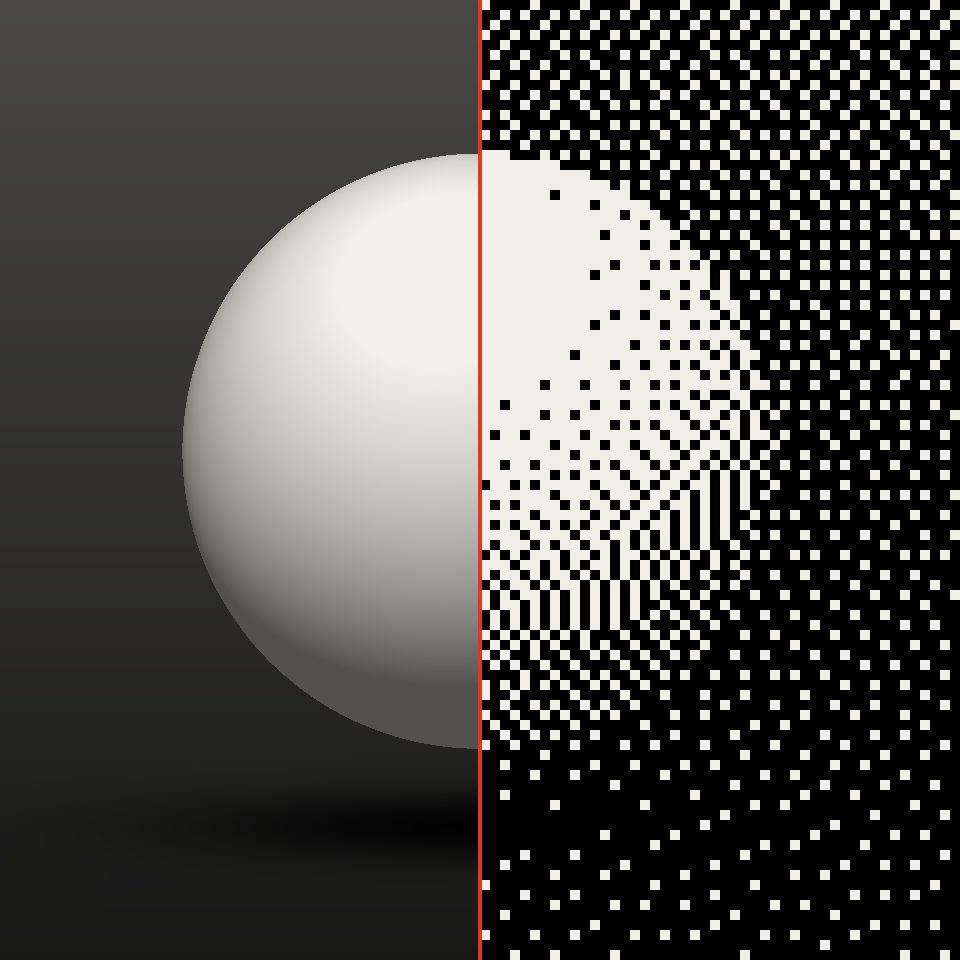
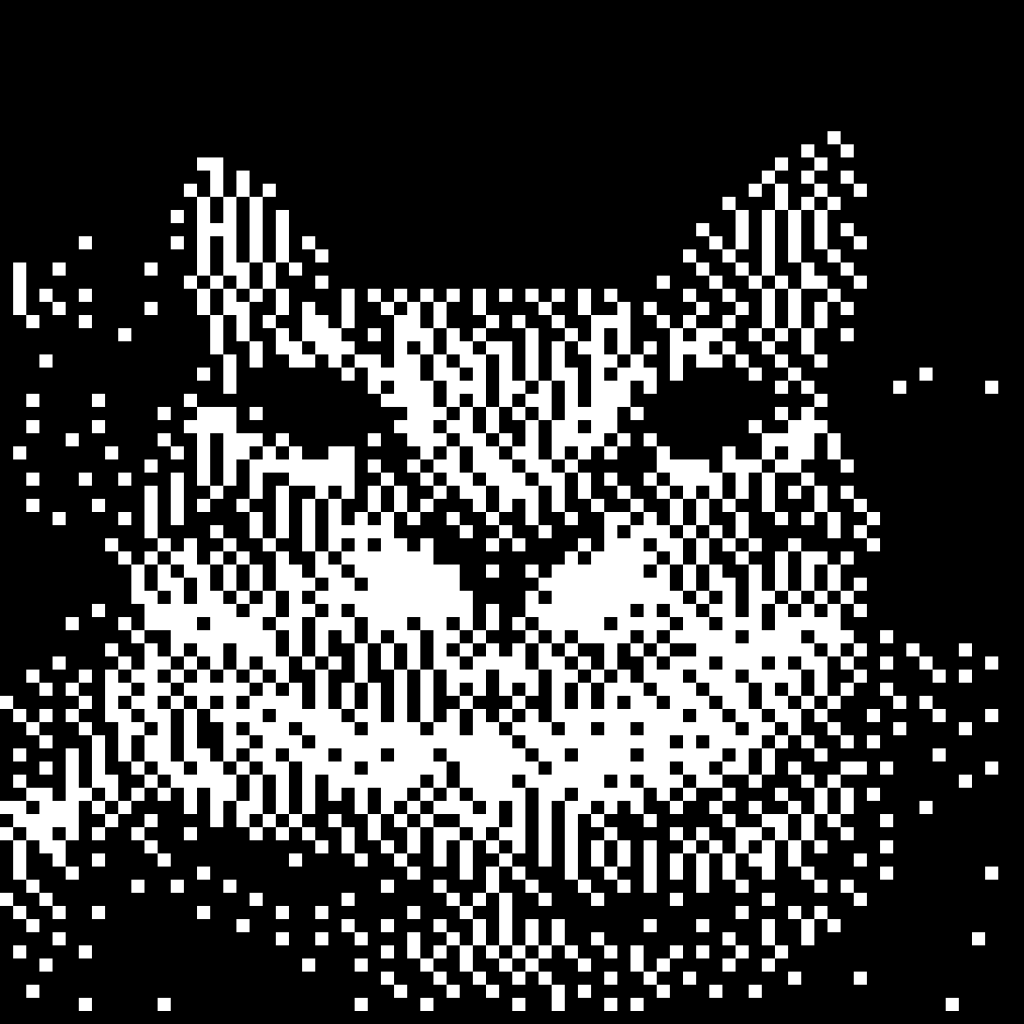
Use the dithered cat as the Dither Press cover
Claude-Session: https://claude.ai/code/session_01QtYCzyJ7ji268P84N7ouPN

diff --git a/index.html b/index.html
@@ -490,7 +490,7 @@ function artView() {
 
 // ---------- Change log (newest first; each update adds 0.01) ----------
 const CHANGELOG = [
-  { v: "1.20", date: "2026-10-22", notes: ["New Dither Press cover: one sphere, half smooth and half dithered"] },
+  { v: "1.20", date: "2026-10-22", notes: ["New Dither Press cover: a dithered cat"] },
   { v: "1.19", date: "2026-10-22", notes: ["Swiss redesign: one typeface, a 12-column grid, and a five-across project grid", "Titles animate in letter by letter; project names roll to red on hover", "Hovering a project fades in its summary over the art", "Blinking red dot for projects in progress, green for complete"] },
   { v: "1.18", date: "2026-10-21", notes: ["All apps are back under jarsh.us: /ten-year-tape, /dither-press and /isle-of-man"] },
   { v: "1.17", date: "2026-10-20", notes: ["Ten Year Tape is back at rajarshi-bose.github.io/ten-year-tape", "jarsh.us/dither-press and jarsh.us/isle-of-man forward to their GitHub pages again"] },
